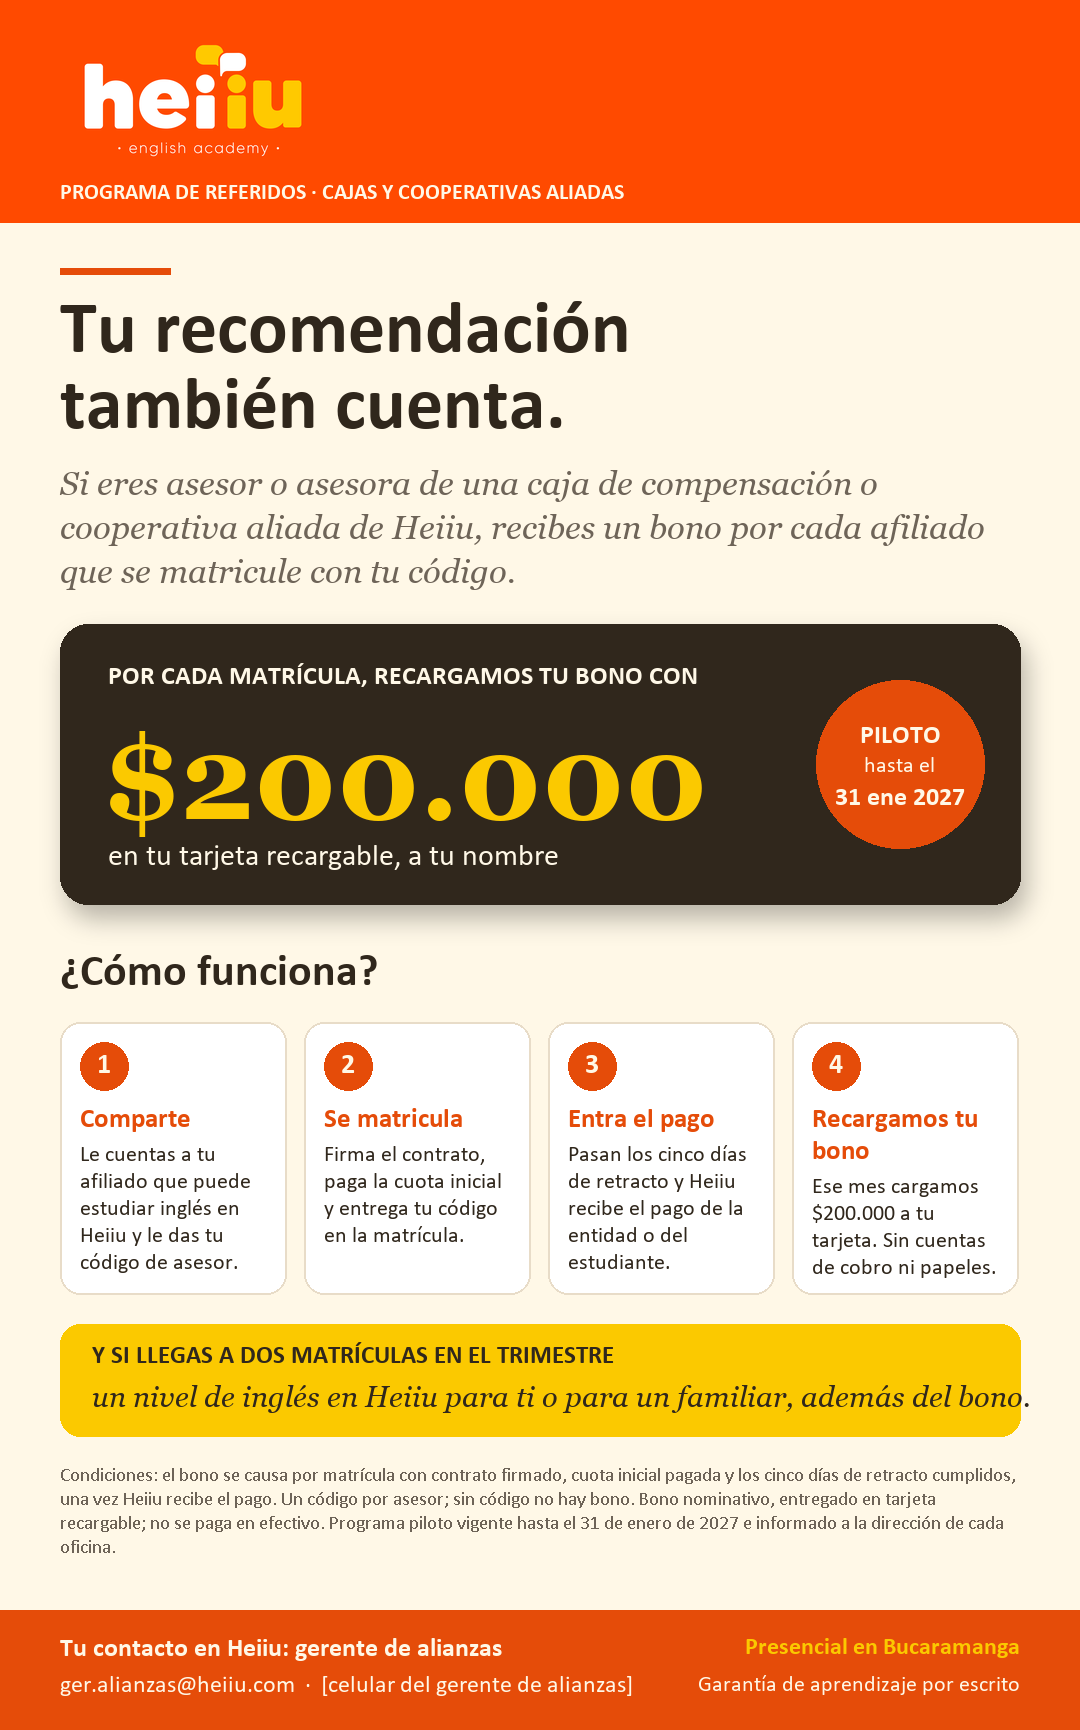
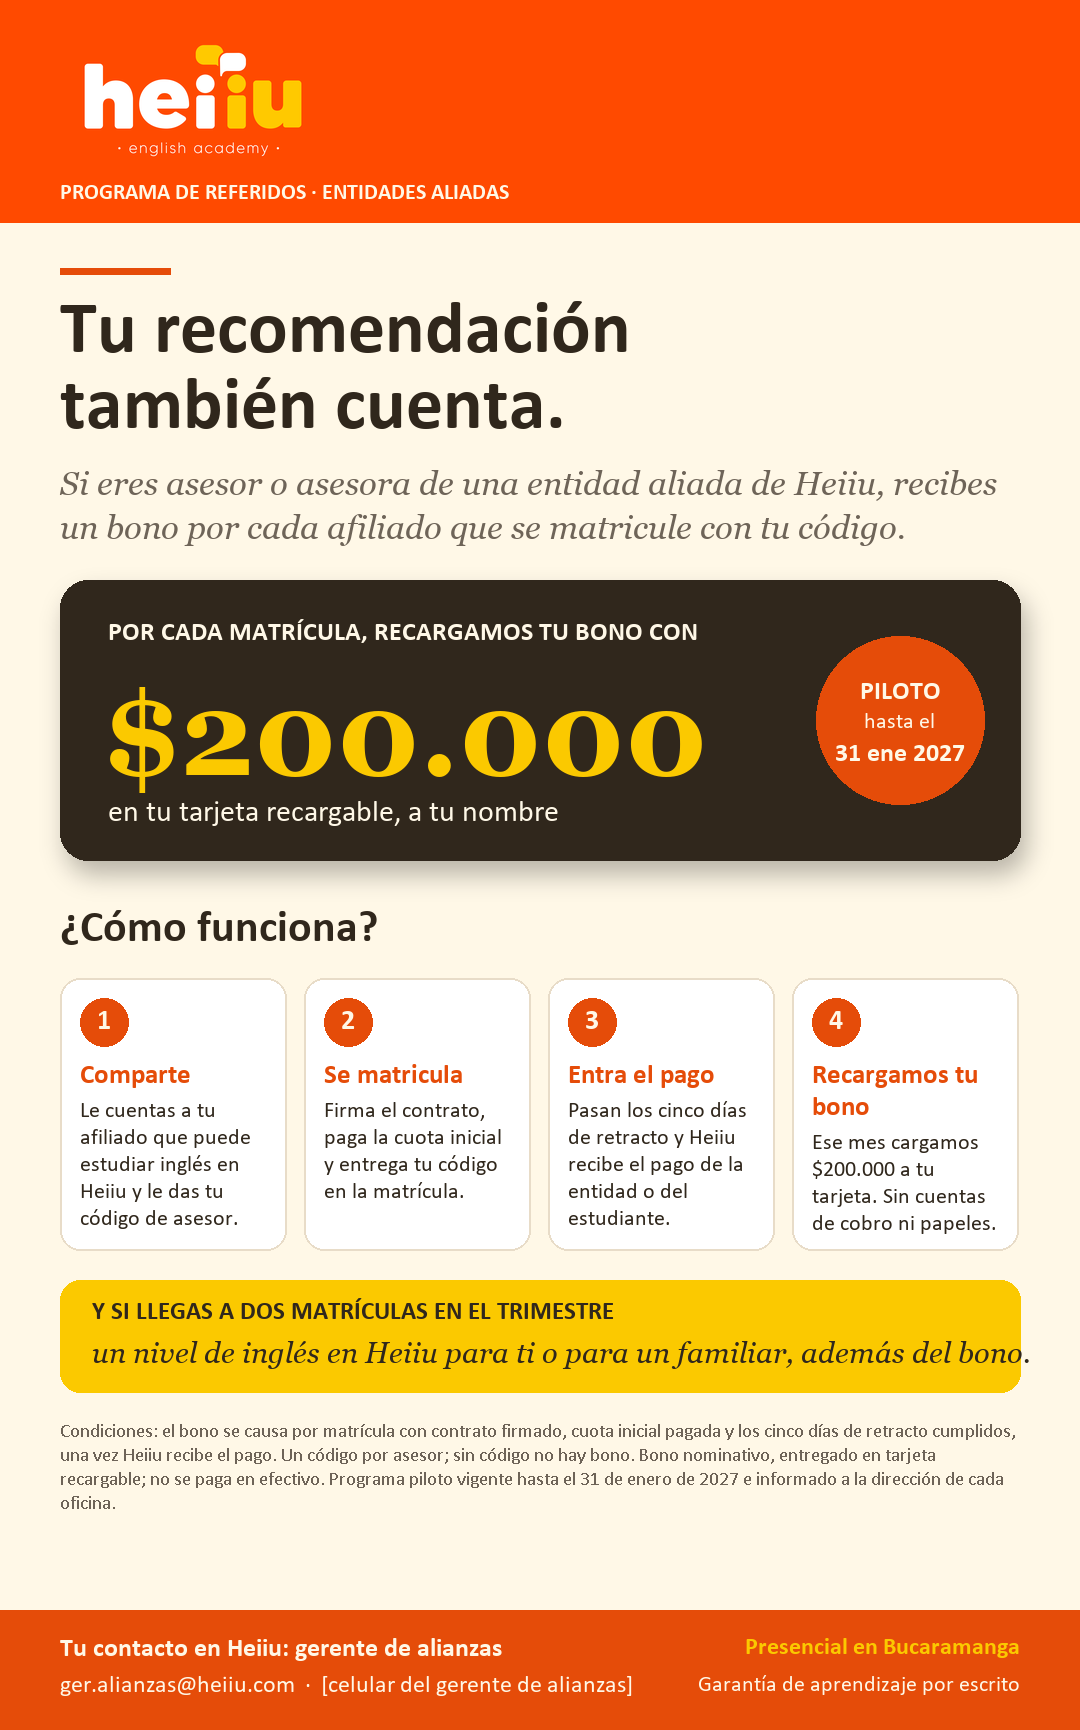
Pieza referidos asesores: 'entidad aliada' en vez de caja de compensacion (solo hay una caja)

Changed region(s): [[0.0306, 0.2497, 0.9778, 0.9052], [0.3056, 0.0936, 0.5806, 0.1249]]

diff --git a/generadores/comercial/gen_pieza_referidos_asesoras.py b/generadores/comercial/gen_pieza_referidos_asesoras.py
@@ -1,5 +1,5 @@
 # -*- coding: utf-8 -*-
-"""Bosquejo de la pieza del programa de referidos para asesores de cajas de compensacion y cooperativas aliadas
+"""Bosquejo de la pieza del programa de referidos para asesores de entidades aliadas (sin nombrar cajas: solo hay una)
 (bono recargable de $200.000 por matricula). Reemplaza la propuesta en azul del gerente de alianzas:
 marca Heiiu (naranja + amarillo + crema), sin logos de terceros, sin "en efectivo", con codigo, con el paso
 de la matricula pagada y con la vigencia del piloto. Vertical 1080x1620 (WhatsApp / impresion media carta).
@@ -42,7 +42,7 @@ d.rectangle([0, 0, W, BAND], fill=band_col)
 lh_ = 150; lw_ = int(logo.width * lh_ / logo.height); logo = logo.resize((lw_, lh_), Image.LANCZOS)
 img.paste(logo, (60, 26))
 # etiqueta del programa, a la derecha del logo
-tag = 'PROGRAMA DE REFERIDOS · CAJAS Y COOPERATIVAS ALIADAS'
+tag = 'PROGRAMA DE REFERIDOS · ENTIDADES ALIADAS'
 ft = font('calibrib.ttf', 22)
 d.text((60, 182), tag, font=ft, fill=CREMA)
 
@@ -53,7 +53,7 @@ f_t = font('calibrib.ttf', 74)
 d.text((60, y), 'Tu recomendación', font=f_t, fill=OSC); y += 76
 d.text((60, y), 'también cuenta.', font=f_t, fill=OSC); y += 92
 f_b = font('georgiai.ttf', 33)
-y = parrafo(d, 60, y, 'Si eres asesor o asesora de una caja de compensación o cooperativa aliada de Heiiu, '
+y = parrafo(d, 60, y, 'Si eres asesor o asesora de una entidad aliada de Heiiu, '
             'recibes un bono por cada afiliado que se matricule con tu código.', f_b, GRIS, W - 120, lh=44)
 
 # ---- panel oscuro con el bono
